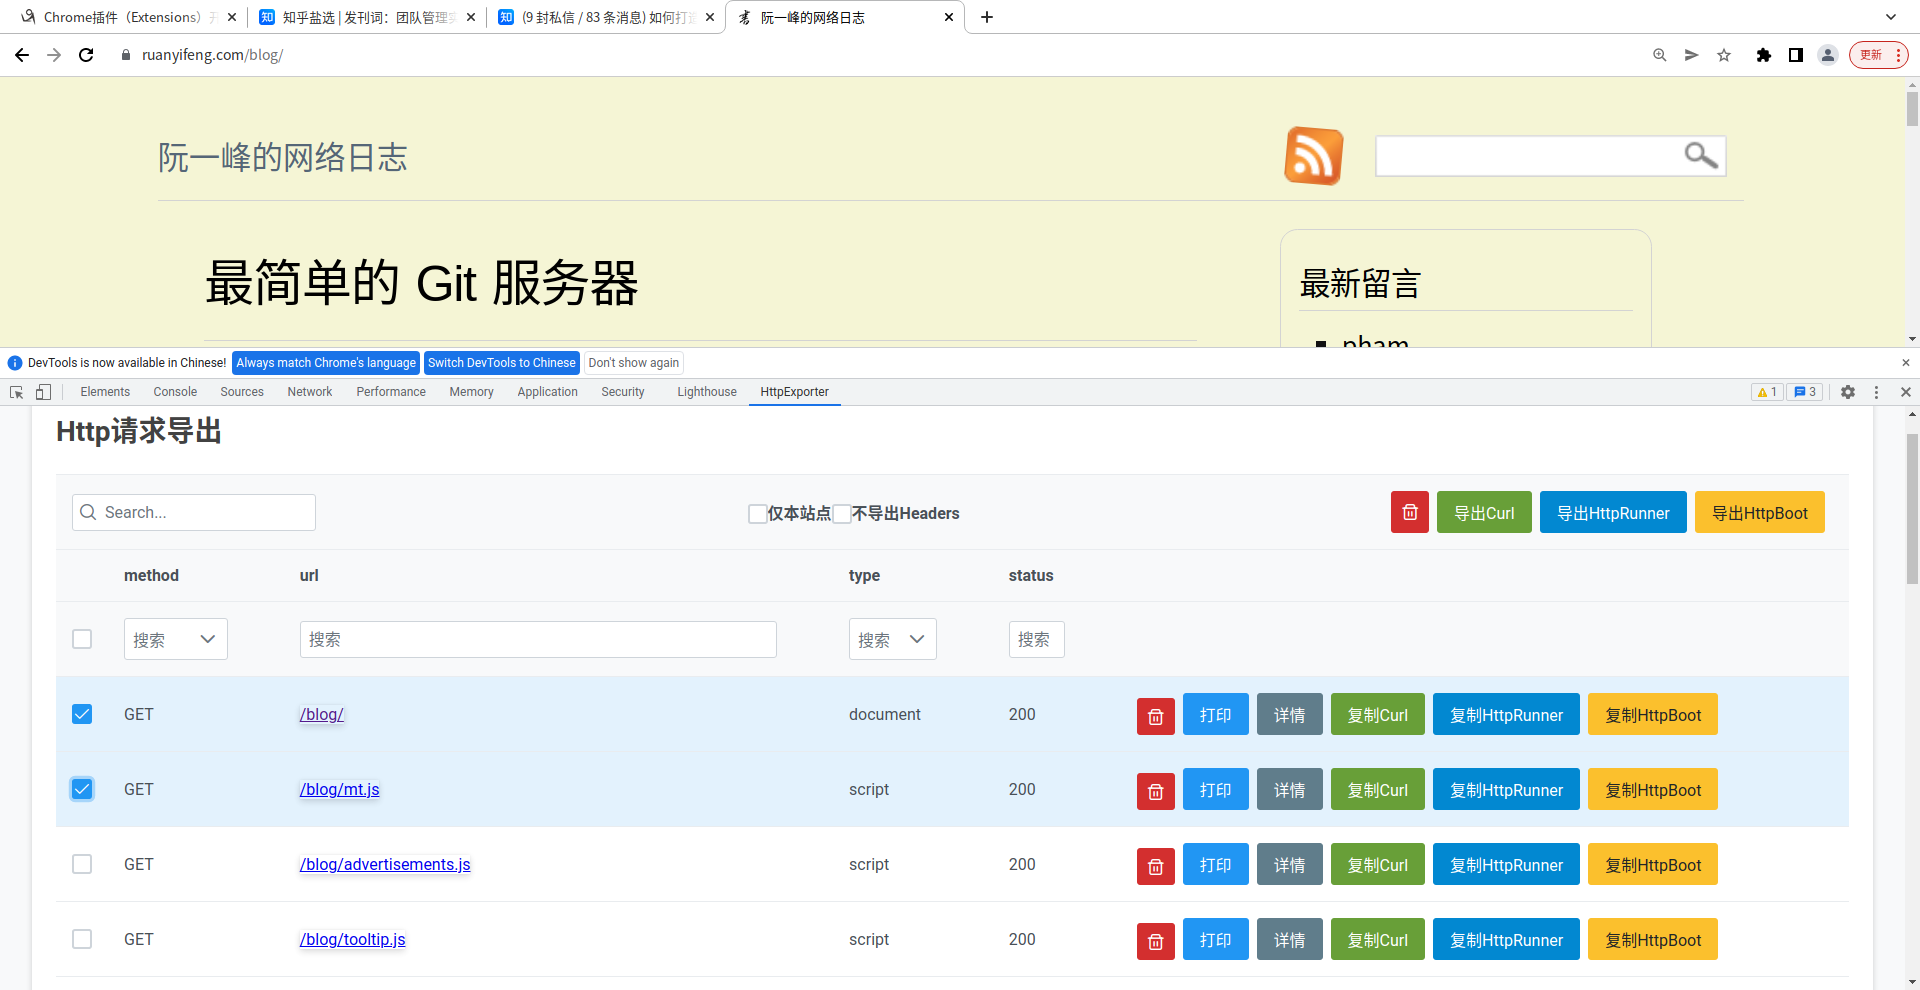
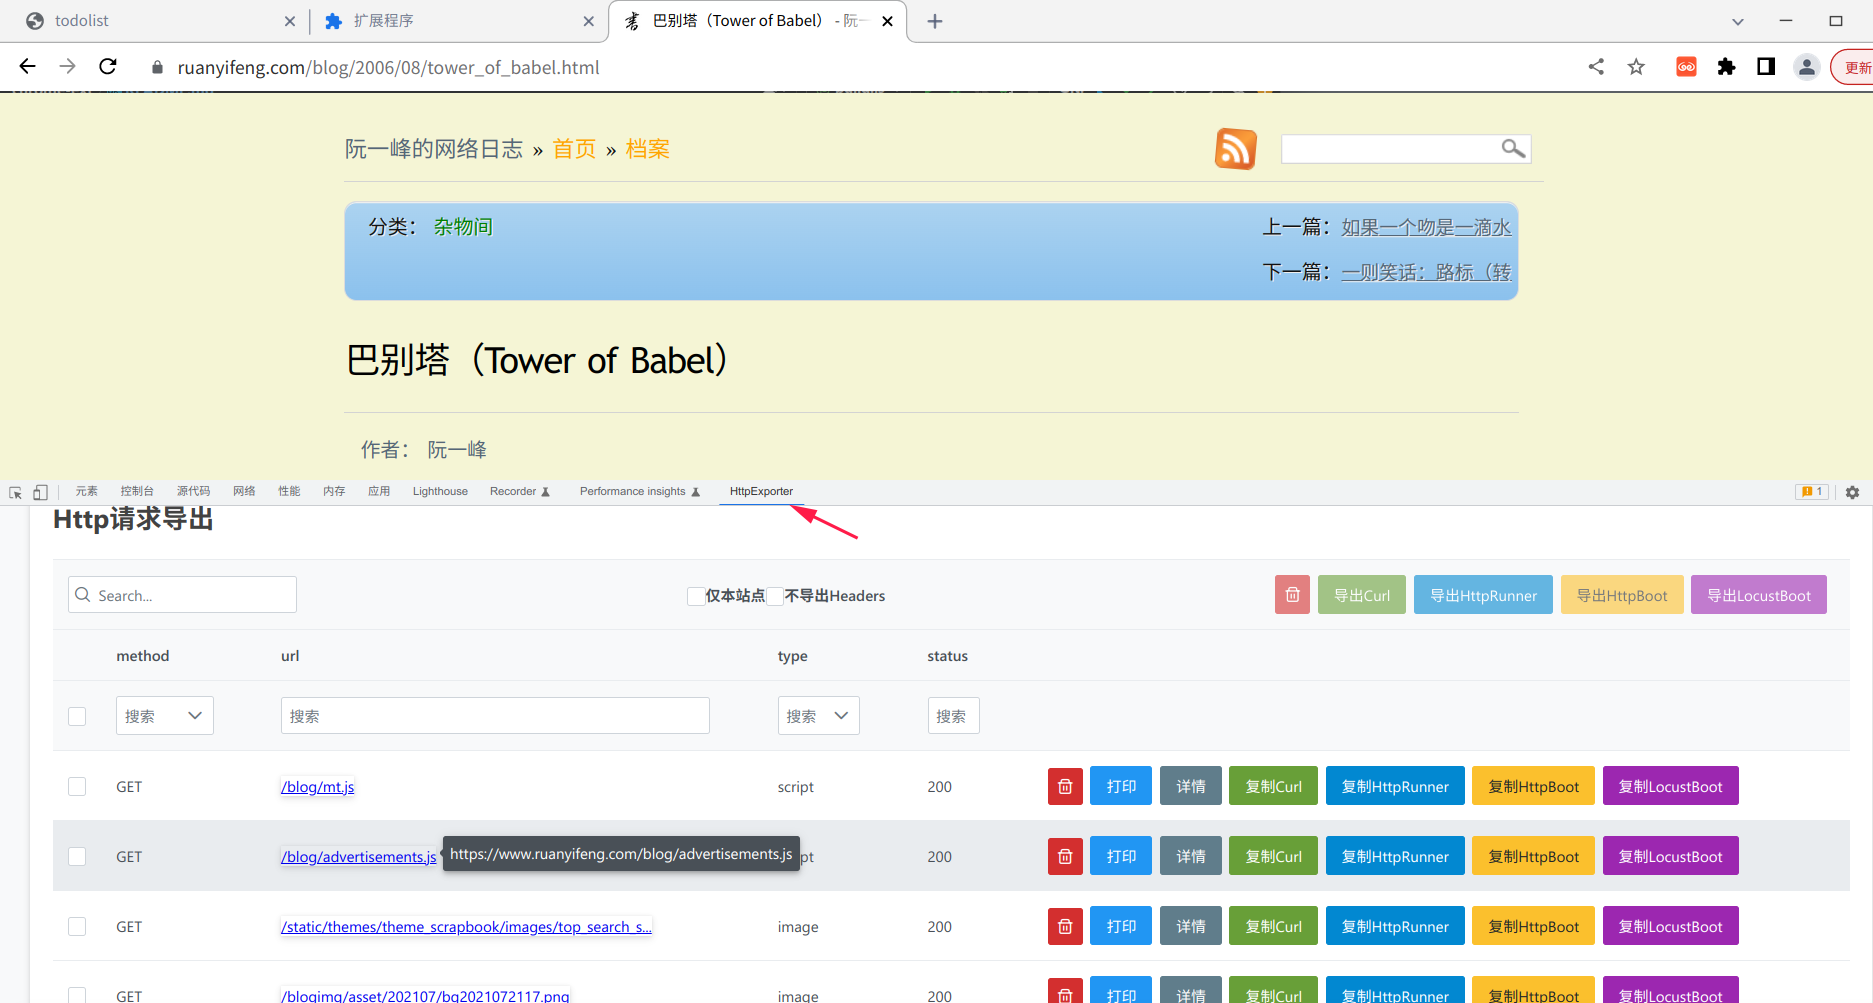
完善文档

diff --git a/src/lib/HttpSerializer.js b/src/lib/HttpSerializer.js
@@ -279,15 +279,15 @@ class HttpSerializer {
             let [domain, yaml] = this.buildHttpPartYaml()
             // 检查是否唯一域名
             if(onlyDomain != domain){
-                throw new Error('LocustBoot 的yaml脚本出错: 多个请求必须在同一个域名下')
+                throw new Error('生成 LocustBoot 的yaml脚本出错: 多个请求必须在同一个域名下')
             }
             httpYamls += yaml + "\n"
         }
+        httpYamls = httpYamls.slice(0, -1) // 去掉最后一个\n
 
         // 2 生成locust部分yaml，其中 http部分yaml 作为 task 下级
         return this.buildLocustPartYaml(onlyDomain, httpYamls)
     }
-
 
     /**
      * 生成 LocustBoot 中 http部分yaml

diff --git a/src/page/HttpExporter.js b/src/page/HttpExporter.js
@@ -308,6 +308,7 @@ function HttpExporter() {
             exportFile(r, 'LocustBoot.yml');
         } catch (error) {
             showToast(error.message, false)
+            throw error
         }
     }
 

diff --git a/README.md b/README.md
@@ -11,7 +11,7 @@ chrome扩展包，包含一系列提升个人学习、工作效率的工具
 
 后续逐渐扩展功能，陆续实现了翻译、远程打开、备份标签页、http请求复制与导出(curl/HttpRunner/HttpBoot)等功能
 
-用到的技术包含: es6, react18, [primereact-UI库](https://www.primefaces.org/primereact/), [webredis-消息服务器](https://gitee.com/shigebeyond/webredis)
+用到的技术包含: es6, react18, [primereact-UI库](https://www.primefaces.org/primereact/), [webredis-消息服务器](https://gitee.com/shigebeyond/webredis), [socket.io](https://socket.io)
 
 # 安装
 1. 下载源码
@@ -114,7 +114,7 @@ echo $r ? 'true' : 'false';
 2. 详情
 ![](img/http-detail.png)
 
-3. 复制curl命令, 结果如下:
+3. 复制curl命令, 示例如下:
 ```
 # 无headers的curl命令
 curl 'https://www.ruanyifeng.com/blog/archives.html'   
@@ -139,7 +139,7 @@ curl 'https://www.ruanyifeng.com/blog/archives.html' \
   -H 'user-agent:Mozilla/5.0 (X11; Linux x86_64) AppleWebKit/537.36 (KHTML, like Gecko) Chrome/104.0.0.0 Safari/537.36'   
 ```
 
-4. 复制HttpRunner的yaml脚本, 结果如下:
+4. 复制HttpRunner的yaml脚本, 示例如下:
 ```
 # 无headers的HttpRunner的yaml脚本
 - test:
@@ -178,7 +178,7 @@ curl 'https://www.ruanyifeng.com/blog/archives.html' \
 		- eq: ['status_code', 304]
 ```
 
-5. 复制HttpBoot的yaml脚本, 结果如下:
+5. 复制HttpBoot的yaml脚本, 示例如下:
 ```
 # 无headers的HttpBoot的yaml脚本
 - get:
@@ -210,4 +210,21 @@ curl 'https://www.ruanyifeng.com/blog/archives.html' \
 	validate_by_jsonpath:
 		'$.code':
 			'=': 304
+```
+
+6. 复制LocustBoot的yaml脚本, 示例如下:
+```
+base_url: http://localhost:8080
+on_start:
+  - print: 开始
+task:
+  - post:
+      url: /tenant/edit/bar
+      data: 
+        name: bar88
+      validate_by_jsonpath:
+        '$.code':
+          '=': 302
+on_stop:
+  - print: 结束
 ```
